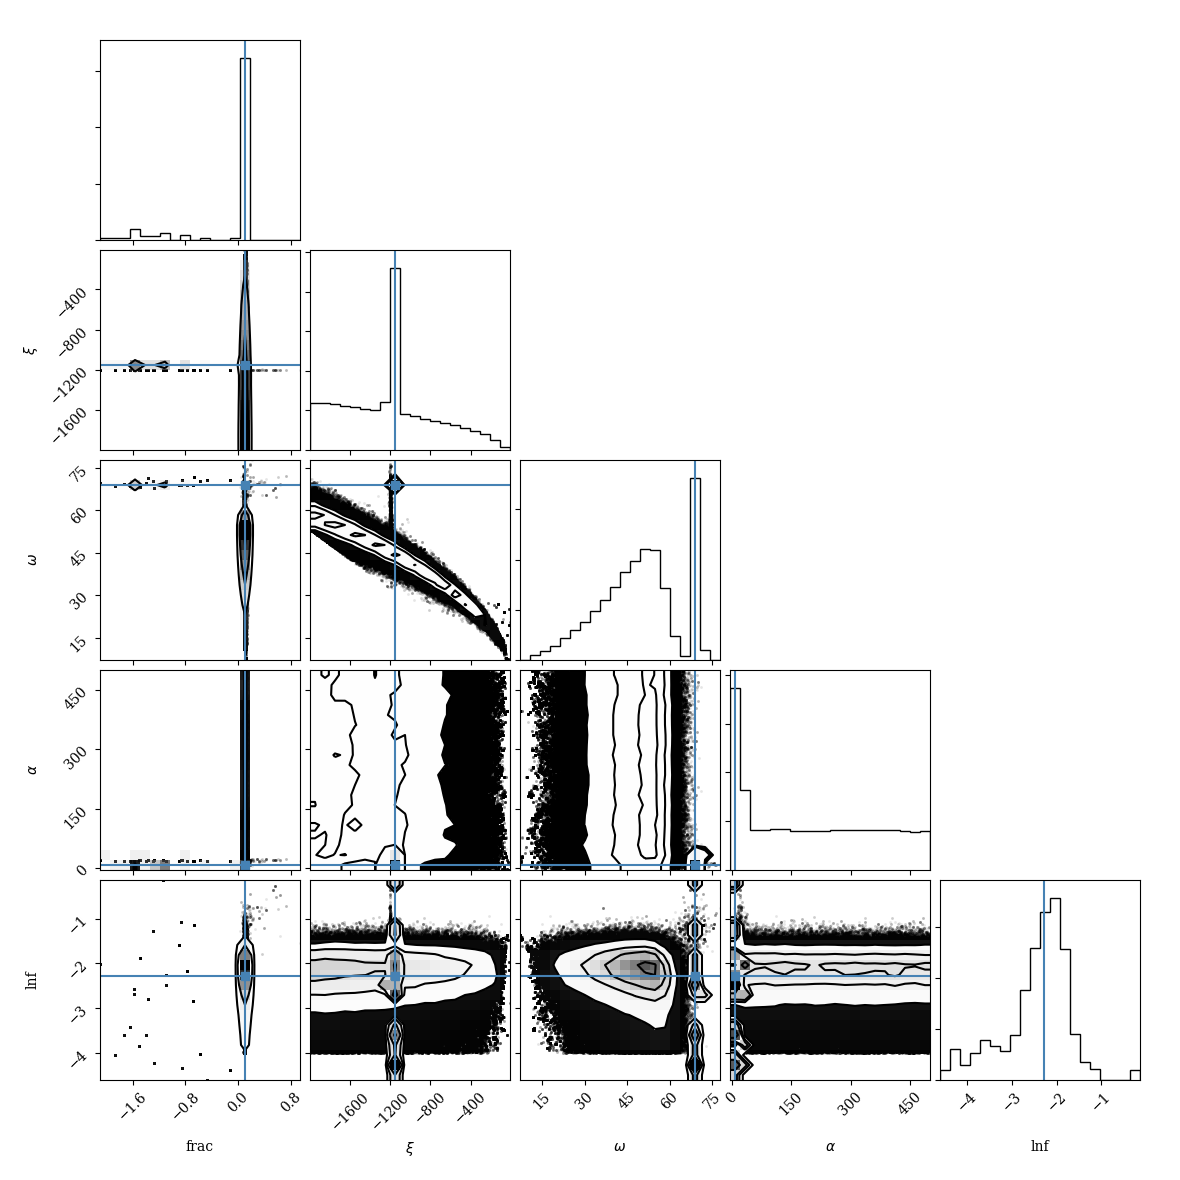
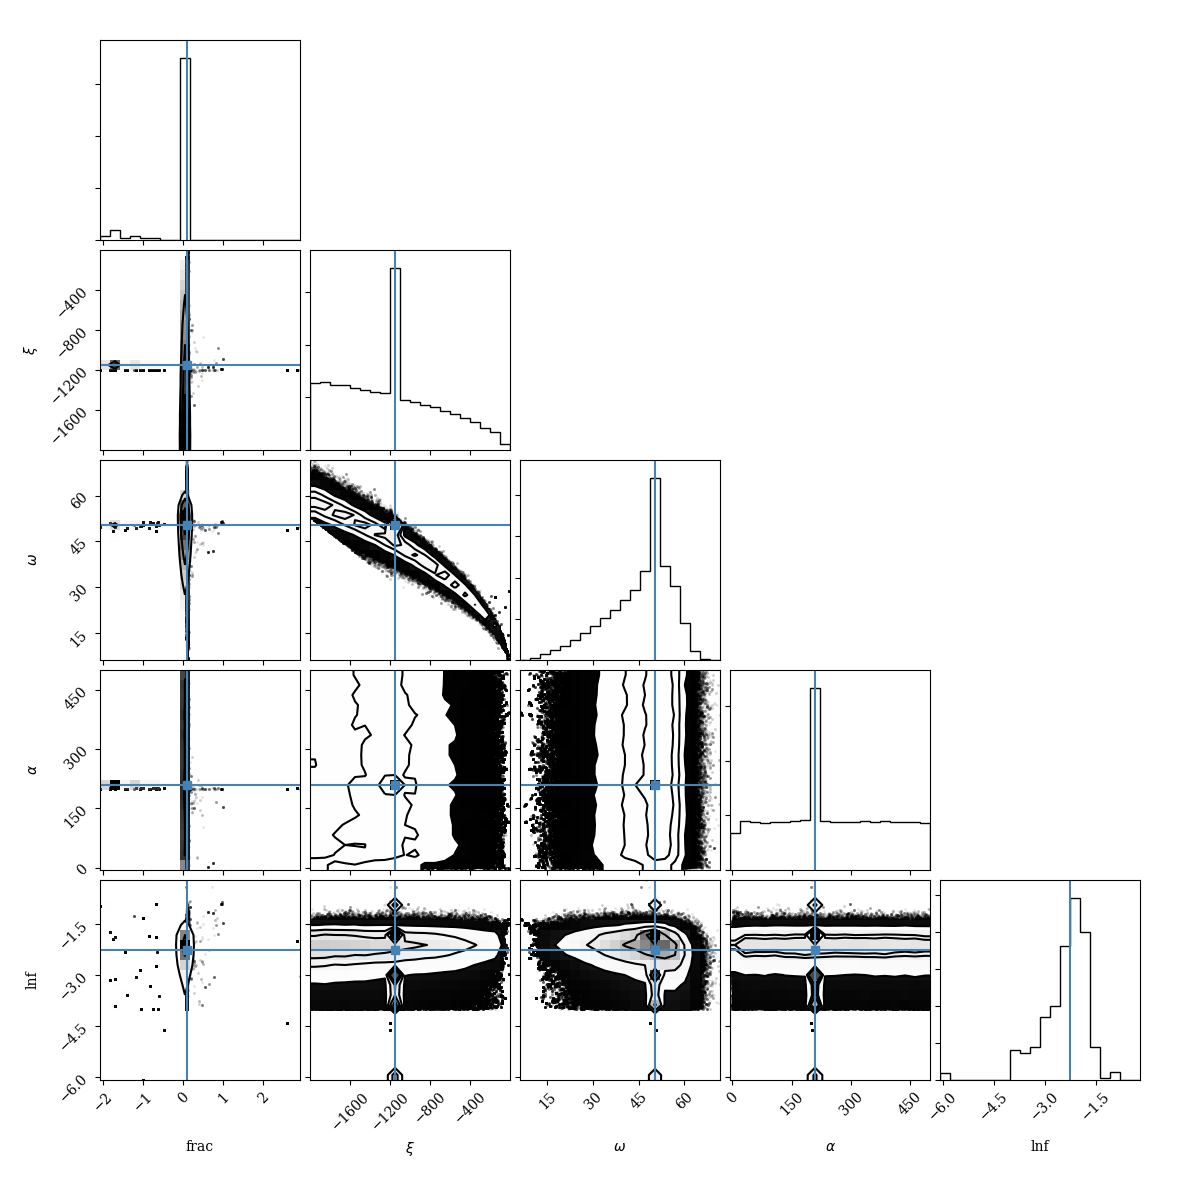
modified:   MCMC_SFD.py 	modified:   figure_preliminary_sfd_corners.png 	modified:   figure_sfd_corners.png 	modified:   plot_cMCSFD_results.py

diff --git a/analysis/scripts/plot_cMCSFD_results.py b/analysis/scripts/plot_cMCSFD_results.py
@@ -18,7 +18,10 @@ if __name__=='__main__':
     tot = 0
     for file in files:
         samples = pickle.load(open(file,'rb'))
+        ## samples = samples.reshape((-1,5))
         samples = samples[:,50:,:].reshape((-1,5))
+        idx = where(samples[:,0] > 0)
+        samples = samples[idx]
         print('adding %d samples from %s... '%(len(samples), file))
         try:
             temp = concatenate((temp, samples), axis=0)
@@ -27,6 +30,9 @@ if __name__=='__main__':
         
     print('%d total samples' %len(temp))
     samples = temp
+    leftover = len(samples) % 100
+    samples = samples[:-7]
+    
 
     ## gives back the 68% percentile range of values on each dimension
     ff_mcmc, m_mcmc, w_mcmc, k_mcmc, lnf_mcmc = map(lambda v: (v[1], v[2]-v[1], v[1]-v[0]),
@@ -52,26 +58,31 @@ if __name__=='__main__':
 
     parameters = [r'$\varepsilon$',r'$\xi$',r'$\omega$',r'$\alpha$', r'$\log f$']
     c = chc()
-    c.add_chain(samples, parameters=parameters, walkers=1000, name='Unimodal Model')
-    table1 = c.analysis.get_latex_table(caption="Results for the tested model", label="tab:example")
-    print(table1)
+    c.add_chain(samples, parameters=parameters, walkers=100, name='Unimodal Model')
+
+    ## table1 = c.analysis.get_latex_table(caption="Results for the tested model", label="tab:example")
+    ## print(table1)
+
     ## latex_table = c.analysis.get_correlation_table()
     ## print (latex_table)
-    ## pdb.set_trace()
+
     ## latex_table = c.analysis.get_covariance_table()
     ## print(latex_table)
+
     ## fig = c.plotter.plot_walks(truth={r'$\varepsilon$':ff_mcmc[0], 
     ##                                   r'$\xi$': md0, r'$\omega$': md1, r'$\alpha$': md2,
     ##                                   r'$\log f$':lnf_mcmc[0]},
-    ##                            convolve=1000)
-    ## fig = c.plotter.plot_walks(parameters=parameters[1:4], convolve=1000)
+    ##                            convolve=100)
+    ## ## fig = c.plotter.plot_walks(parameters=parameters[1:4], convolve=1000)
     ## savefig('temp.png')
     ## sys.exit()
+
     ## fig = c.plotter.plot_distributions(truth={r'$\xi$': md0, r'$\omega$': md1, '$\alpha$': k_mcmc[0]})
 
     ## grc = c.diagnostic.gelman_rubin()
     ## gc = c.diagnostic.geweke()
     ## print(grc,gc)
+
     c.configure(label_font_size=18, contour_labels='sigma')
     fig = c.plotter.plot(figsize="column",
                          truth={r'$\varepsilon$':ff_mcmc[0], 

diff --git a/analysis/scripts/MCMC_SFD.py b/analysis/scripts/MCMC_SFD.py
@@ -78,7 +78,7 @@ if __name__=='__main__':
     step_size = 1.0
     ## p0 = (0.05, 3.5, 2.5, 2.5, 0.01)
     ## p0 = (0.06, -100., 50, 20, -2.5)
-    p0 = (0.06, -1200, 70, 20, -2.5)
+    p0 = (0.06, -1200, 50, 200, -2.5)
 
     mckaps = glob.glob('mc_sfd_*.pkl')
     if mckaps:
